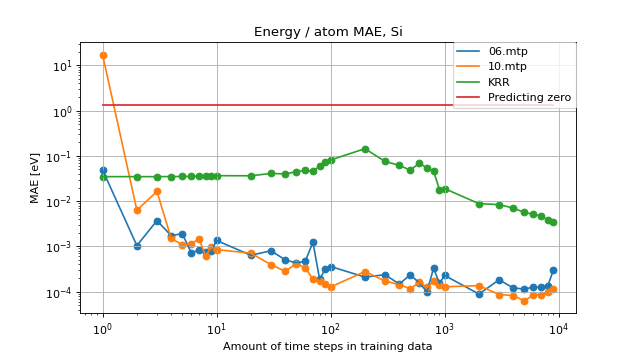
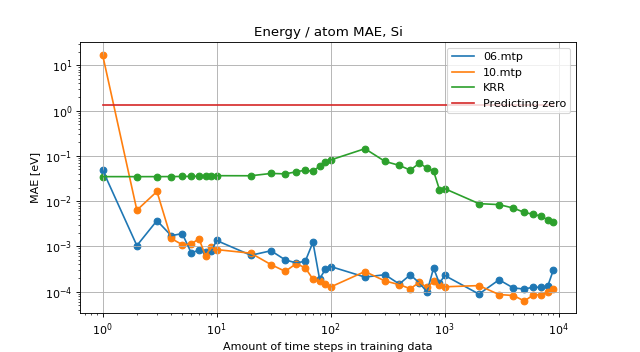
updated

Changed region(s): [[0.6875, 0.125, 0.9062, 0.3438]]

diff --git a/visualization.py b/visualization.py
@@ -268,7 +268,7 @@ def plot_energies(size='big'):
     #plt.scatter(timesteps, zero_MAEs_si)
     plt.plot(timesteps, zero_MAEs_si)
 
-    plt.legend(['06.mtp', '10.mtp', 'KRR', 'Predicting zero'], bbox_to_anchor=(1, 1), loc=1, borderaxespad=0)
+    plt.legend(['06.mtp', '10.mtp', 'KRR', 'Predicting zero'], loc=1)
 
     plt.savefig('figures/Si_energy_per_atom_MAE_all_' + size + '.png')
     #plt.show()
